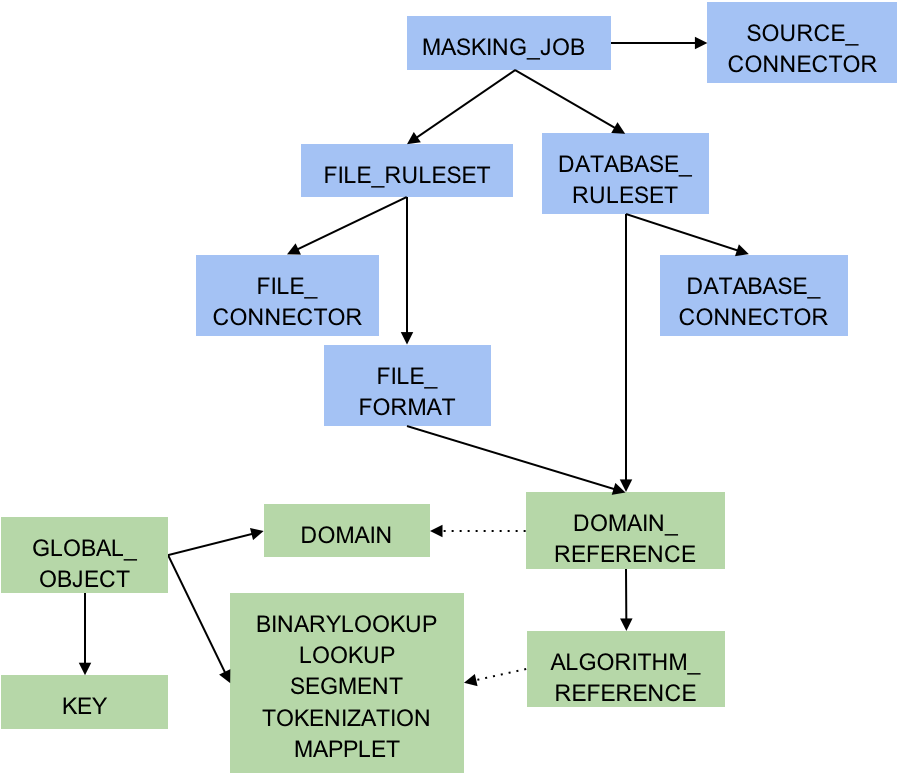
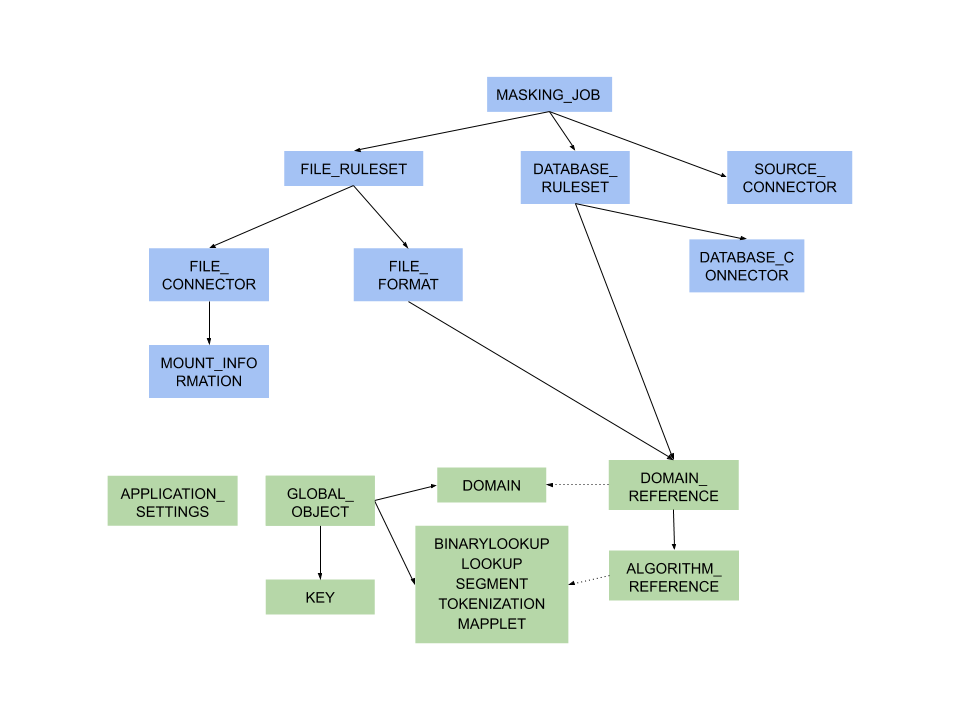
DOC-168 Add documentation for the new masking feature for Filesytem Mount Points
Reviewed at: http://reviews.delphix.com/r/47875/

diff --git a/docs/Connecting_Data_to_Masking_Service/Managing_Remote_Mounts.md b/docs/Connecting_Data_to_Masking_Service/Managing_Remote_Mounts.md
@@ -1,0 +1,155 @@
+# Managing Remote Mounts
+This section describes how you can mount a NFS/CIFS location inside the masking engine and use it in a masking job.
+
+In order to access the files shared over NFS/CIFS server from the masking engine, complete the following two steps:
+
+1. Create and connect a mount using [Mount Filesystem API](#mount-filesystem-api) endpoint.
+2. [Create a file connector](#file-connector) with Filesystem Mount Point mode. Or,
+   [Upload a XML/Copybook file format](#file-format) using Filesystem Mount Point mode.
+
+## Mount Filesystem API
+The **Mount Filesystem** APIs are used to perform normal CRUD operations(Create, Read, Update and Delete) along with three mount operations connect(mount), disconnect(unmount) and remount on a mount object.
+
+### Mount Information
+To create a mount entry, information about the mount are passed. Some of them are required and some are optional.
+
+* Require Information:
+    * *mountName*: The name of the mount. This name is used to refer this mount in the connector creation and file format upload UIs.
+    * *hostAddress*: The NFS/CIFS server address.
+    * *mountPath*: The remote path shared by the NFS/CIFS servers.
+    * *type*: The type of the server. CIFS, NFS3 or NFS4.
+* Optional Information:
+    * *options*: The mount options.
+    * *connectOnStartup*: Whether this mount should be connected or not when the server starts.
+
+!!! Note
+    When a server shuts down, all the mounts are disconnected.
+
+### Mount Options
+The API supports passing many mount options. Not all of them are supported by a server. After a mount is connected, you might see the options field has many options which were not passed by you or some options have been eliminated that were passed by you. The options field shows the effective options only. The applied options are gathered after a mount is connected.
+
+The API also restricts usage of some mount options.
+#### Enforced Options
+Following mount options are enforced and added to the list of options for all mounts:
+
+* *nosuid*: The filesystem cannot contain set userid files.
+* *noexec*: No executable script can be run from the mount.
+* *nodev*: The filesystem cannot contain special devices.
+
+#### Minimal Options
+Although `options` is an optional field, it is required for CIFS mounts to pass credentials. Following options are required for CIFS mounts:
+
+* *username*: The username to connect to the CIFS server.
+* *password*: The password of the user.
+* *domain*: The domain of the user.
+
+For example, `"options": "username=abc,password=pass,domain=DOMAIN"`
+
+For NFS mounts, `options` is not required. It can be `null`.
+
+#### Version Options
+
+The version information is passed using *vers* option. The supported versions based on mount types are
+
+| Mount Type | Supported Versions|
+| ---------- | ----------------- |
+|CIFS   | 2.0, 2.1, 3.0   |
+|NFS3   | 3, 3.0  |
+|NFS4   | 4, 4.0, 4.1, 4.2   |
+
+#### Generic Options
+Some mount options are generic which can be applied to all the mount types while some are mount specific options. In case of *remount* operation, only generic options can be modified. The list of allowed generic options are:
+
+async,  atime,  auto,  context,  defaults,  defcontext,  diratime,  dirsync,  fscontext,  group,  iversion,  lazytime,  loud,  mand,  _netdev,  noatime,  noauto,  nodev,  nodiratime,  noexec,  nofail,  noiversion,  nolazytime,  nomand,  norelatime,  nostrictatime,  nosuid,  nouser,  owner,  relatime,  _rnetdev,  ro,  rootcontext,  rw,  silent,  strictatime,  sync and  user.
+
+### CRUD Operations
+
+#### Create
+The *create* endpoint is used to create a mount entry. It takes all the information about a mount as its input and creates a mount entry. It doesn't do any kind of validation about the mount's accessibility. The validation is done during the *connect* operation.
+
+#### Read
+The *read* endpoints are used to retrieve information about a mount. There are two *read* endpoints.
+1. *get all*: To get information about all mounts.
+2. *get*: To get information about any particular mount identified by its id.
+
+#### Update
+The *update* endpoint is used to modify any information of a mount. Update operation can be performed only on a disconnected mount.
+
+#### Delete
+The *delete* endpoint is used to delete a mount entry. A mount can be deleted only if it is not being used in any of the connectors.
+
+
+### Mount Operations
+Apart from normal CRUD operations, there are three special mount related operations exposed through the API.
+
+#### Connect
+The *connect* endpoint is used to mount a remote mount inside the masking engine. If connect operation succeeds then, the options field is updated with the applied mount options.
+
+#### Disconnect
+The *disconnect* endpoint is used to unmount a remote mount from the masking engine.
+
+#### Remount
+The API supports the **remount** operation. This can be used to remount an active or to connect a disconnected mount and also to update some mount information. This can update  *mountName*, *connectOnStartup* and generic *options* only. For other updates, use the normal update API.
+
+### Resolve Mount Consistency
+A script runs in the background to keep the data in mount_information table and mounts in sync. If for some reason, the data for a mount mounted inside the mount engine and data corresponding to that mount in mount_information table becomes inconsistent, the mount is unmounted. For example, if a mount is in disconnected state in DB but it is mounted in the engine, then it will be unmounted.
+
+## Using Mounts
+A mount can be used at two places:
+
+* File connectors
+* File formats
+
+### File Connector
+While creating a connector, when any file connector option is selected, the UI shows a dropdown to select how a file will be accessed. There are three options
+
+* Filesystem Mount Point
+* SFTP
+* FTP
+
+![](./media/ShowMountOptions.png)
+
+On selecting the Filesystem Mount Point option, the mount name and a path inside the mount needs to be specified.
+
+![](./media/ShowMounts1.png)
+
+* Mount Name: Is a list of mount names created in the engine.
+* Path Under Mount: A path relative to the path mounted. By default it is at the root of the remote Mount path.
+* Remote Path: The complete remote path. On selecting a mount name and typing a path in the above input box, this gets updated.
+
+![](./media/ShowMounts2.png)
+
+!!! note
+    A connector can be created even if a mount is in disconnected state but it should be in active state when a ruleset is being created or when a job is run.
+### File Format
+The XML and Copybook file formats can be uploaded from a remote location. To upload a file format from a NFS/CIFS location, select the Filesystem Mount Point option.
+
+![](./media/ShowMounts3.png)
+
+### Sync Mounts
+A mount can be synced from a source engine to target engine using [Sync APIs](../Managing_Multiple_Engines_for_Masking/Endpoints). Syncing a file connector using a mount also syncs the related mounts. The following mount information fields are synced:
+
+* mountName
+* hostAddress
+* mountPath
+* options
+* connectOnStartup
+* type
+
+In case of CIFS mounts, the password is not synced. In order to set the password in the target engine, update the mount's options and ensure to include the password in the options.
+
+## Recommended Mount Server Configuration
+The NFS and CIFS servers should be configured in such a way that the files are readable and writeable by the masking engine.
+
+### CIFS Server
+The user provided to connect to the mount should have read and write permission on the mount.
+
+
+### NFS Server
+
+1. The masking engine's server IP should have read and write permission on the mount.
+2. For NFS, the access to a file is controlled based on the UID and GID. In order to give read & write permission to the masking engine on the share path, the path should be shared with following options:
+```
+<mount path> <masking engine ip>(rw,all_squash,anonuid=<uid>,anongid=<gid>)
+# uid and gid is of the owner of the shared path on the server
+```

diff --git a/docs/What's New for Masking.md b/docs/What's New for Masking.md
@@ -7,6 +7,7 @@ In 5.2 we introduced the ability to synchronize Masking Algorithms between engin
 - Rulesets
 - Domains
 - File Formats
+- Mount Information
 
 The sync of objects is possible through improvements to several sync API endpoints, including:
 
@@ -64,6 +65,14 @@ In 5.2 we released an all-new set of API endpoints allowing for the automation o
 |System Information|GET /system-information | Get version, etc.|
 |Login/Logout|PUT /logout | User logout|
 |Executions|GET /execution-components | Status for a table, file, or Mainframe data set|
+|Mount Filesystem|GET /mount-filesystem | Get all mounts |
+||POST /mount-filesystem | Create a mount |
+||GET /mount-filesystem/{mountId} | Get a mount by ID |
+||DELETE /mount-filesystem/{mountId} | Delete a mount by ID |
+||PUT /mount-filesystem/{mountId} | Update a mount by ID |
+||PUT /mount-filesystem/{mountId}/connect | Connect a mount by ID |
+||PUT /mount-filesystem/{mountId}/disconnect | Disconnect a mount by ID |
+||PUT /mount-filesystem/{mountId}/remount | Remount a mount by ID |
 
 
 In addition to the net new API endpoints, we have improved pre-existing API endpoints. Some of the improvements include:
@@ -73,5 +82,5 @@ In addition to the net new API endpoints, we have improved pre-existing API endp
 - Ability to have ruleset refresh drop tables
 - Support for XML file types
 - Addition of dataType to column metadata
-
+- Addition of mountName in the ConnectionInfo of a file connector and a mainframe dataset connector to use a filesystem mount point.
 For more information please on Delphix Masking APIs please see [API documentation](https://maskingdocs.delphix.com/Delphix_Masking_APIs/Masking_Client/Masking_API_Client/).  Please note that the previous generation of Masking APIs (commonly referred to as V4) is EOL and no longer supported in this release. All users are encouraged to migrate to the V5 APIs.

diff --git a/docs/Connecting_Data_to_Masking_Service/Managing_File_Formats.md b/docs/Connecting_Data_to_Masking_Service/Managing_File_Formats.md
@@ -6,8 +6,8 @@ Unlike databases files for the most part do not have built in metadata to descri
 
 ##Mainframe data sets and XML files
 
-For Mainframe data sets, you can specify the file format via Input Format option which will import the copybook directly into Delphix. You can input this file from SFTP or FTP. Please select Copybook as the Import Format Type.
-For XML files you can also input the file format with the input format option. You can use the file you want to mask as the format. Delphix will input the format of the file directly. You can input this file from SFTP or FTP. Please select XML as the Import Format Type.
+For Mainframe data sets, you can specify the file format via Input Format option which will import the copybook directly into Delphix. You can input this file from Filesystem Mount Point, SFTP or FTP. Please select Copybook as the Import Format Type.
+For XML files you can also input the file format with the input format option. You can use the file you want to mask as the format. Delphix will input the format of the file directly. You can input this file from Filesystem Mount Point, SFTP or FTP. Please select XML as the Import Format Type.
 
 ##Delimited, Excel, Fixed files
 
@@ -57,7 +57,7 @@ To create a format manually, you can just click the create format button and giv
 ### For a Format Type of Copybook or XML
 
  1. Select a **Connection Mode**.
- 2. Fill out the required fields of the selected **Connection Mode**.
+ 2. Fill out the required fields of the selected **Connection Mode**. For Filesytem Mount Point connection mode, refer the [Managing Remote Mounts](./Managing_Remote_Mounts/#file-format) page to fill out the required fields.
  3. Click **Browse**.
  4. Click the **Select** button to the right of the desired import file format.
  5. Enter a **Logical Name**.

diff --git a/docs/Managing_Multiple_Engines_for_Masking/Masking_API_Call_Concepts.md b/docs/Managing_Multiple_Engines_for_Masking/Masking_API_Call_Concepts.md
@@ -13,6 +13,7 @@ Note: We do not currently support Mainframe masking jobs.
 EngineSync uses object identifiers to name unique objects within the
 engine. The follow object types are currently supported:
 
+  - APPLICATION_SETTINGS
   - DATABASE_CONNECTOR
   - DATABASE_RULESET
   - DOMAIN
@@ -26,12 +27,13 @@ engine. The follow object types are currently supported:
     - CLEANSING
     - DATE_SHIFT
     - LOOKUP
+    - MAPPLET
     - MIN_MAX
     - REDACTION
     - SEGMENT
     - TOKENIZATION
-    - MAPPLET
   - MASKING_JOB
+  - MOUNT_INFORMATION
   - PROFILE_EXPRESSION
   - PROFILE_JOB
   - PROFILE_SET
@@ -63,6 +65,7 @@ entire engine), and blue represents objects that need to be a part of an
 environment
 
 ![](./media/masking_api_call_concepts_dependencies.png)
+<!-- Location of the image https://docs.google.com/drawings/d/1RtTF_pXDW3UokKWba4_oT6ac6lHRcUtykBhERtRx9Ng/edit?usp=sharing -->
 
 ## Object Revision Tracking
 

diff --git a/docs/Connecting_Data_to_Masking_Service/Managing_Connectors.md b/docs/Connecting_Data_to_Masking_Service/Managing_Connectors.md
@@ -163,12 +163,16 @@ appears indicating success or failure.
 
 ### **File Connectors**
 
-The values that appear correlate to the **File Type** you select.
+Following values appear when any of the file connector types are selected:
 
   - **Connector Name** — The name of the file connector (specific to
     your Delphix application and unrelated to the file itself).
 
-  - **Connection Mode** — SFTP, FTP
+  - **Connection Mode** —  Filesystem Mount Point, SFTP and FTP
+
+![](./media/ShowMountOptions.png)
+
+Rest of the values appear based on the selected **Connection Mode** value. For **Filesystem Mount Point** connection mode, refer to the corresponding section in the [Managing Remote Mounts](./Managing_Remote_Mounts/#file-connector) page. For other connection modes, following values appear:
 
   - **Path** — The path to the directory where the file(s) are
     located.

diff --git a/docs/Managing_Multiple_Engines_for_Masking/Working_with_Multiple_Masking_Engines.md b/docs/Managing_Multiple_Engines_for_Masking/Working_with_Multiple_Masking_Engines.md
@@ -34,6 +34,7 @@ following:
   - File Formats
   - Inventories
   - Masking Jobs
+  - Mount Information
   - Profile Expressions
   - Profile Jobs
   - Profile Sets
